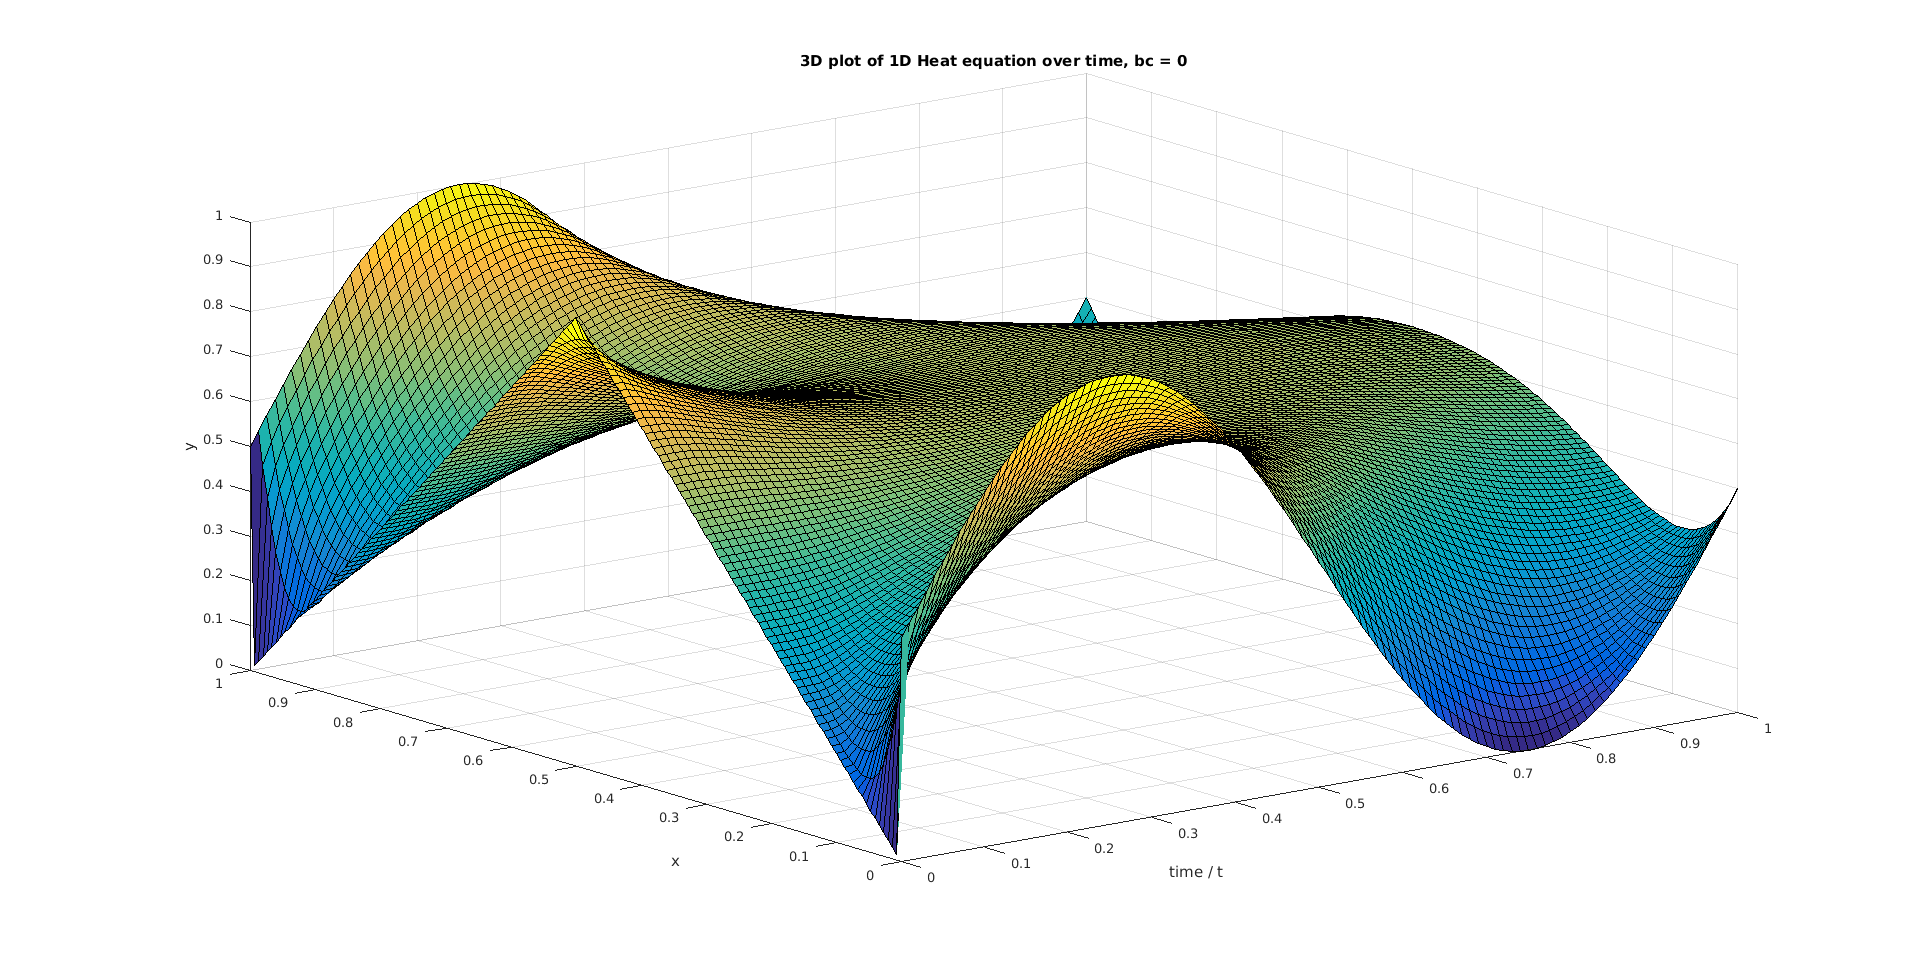
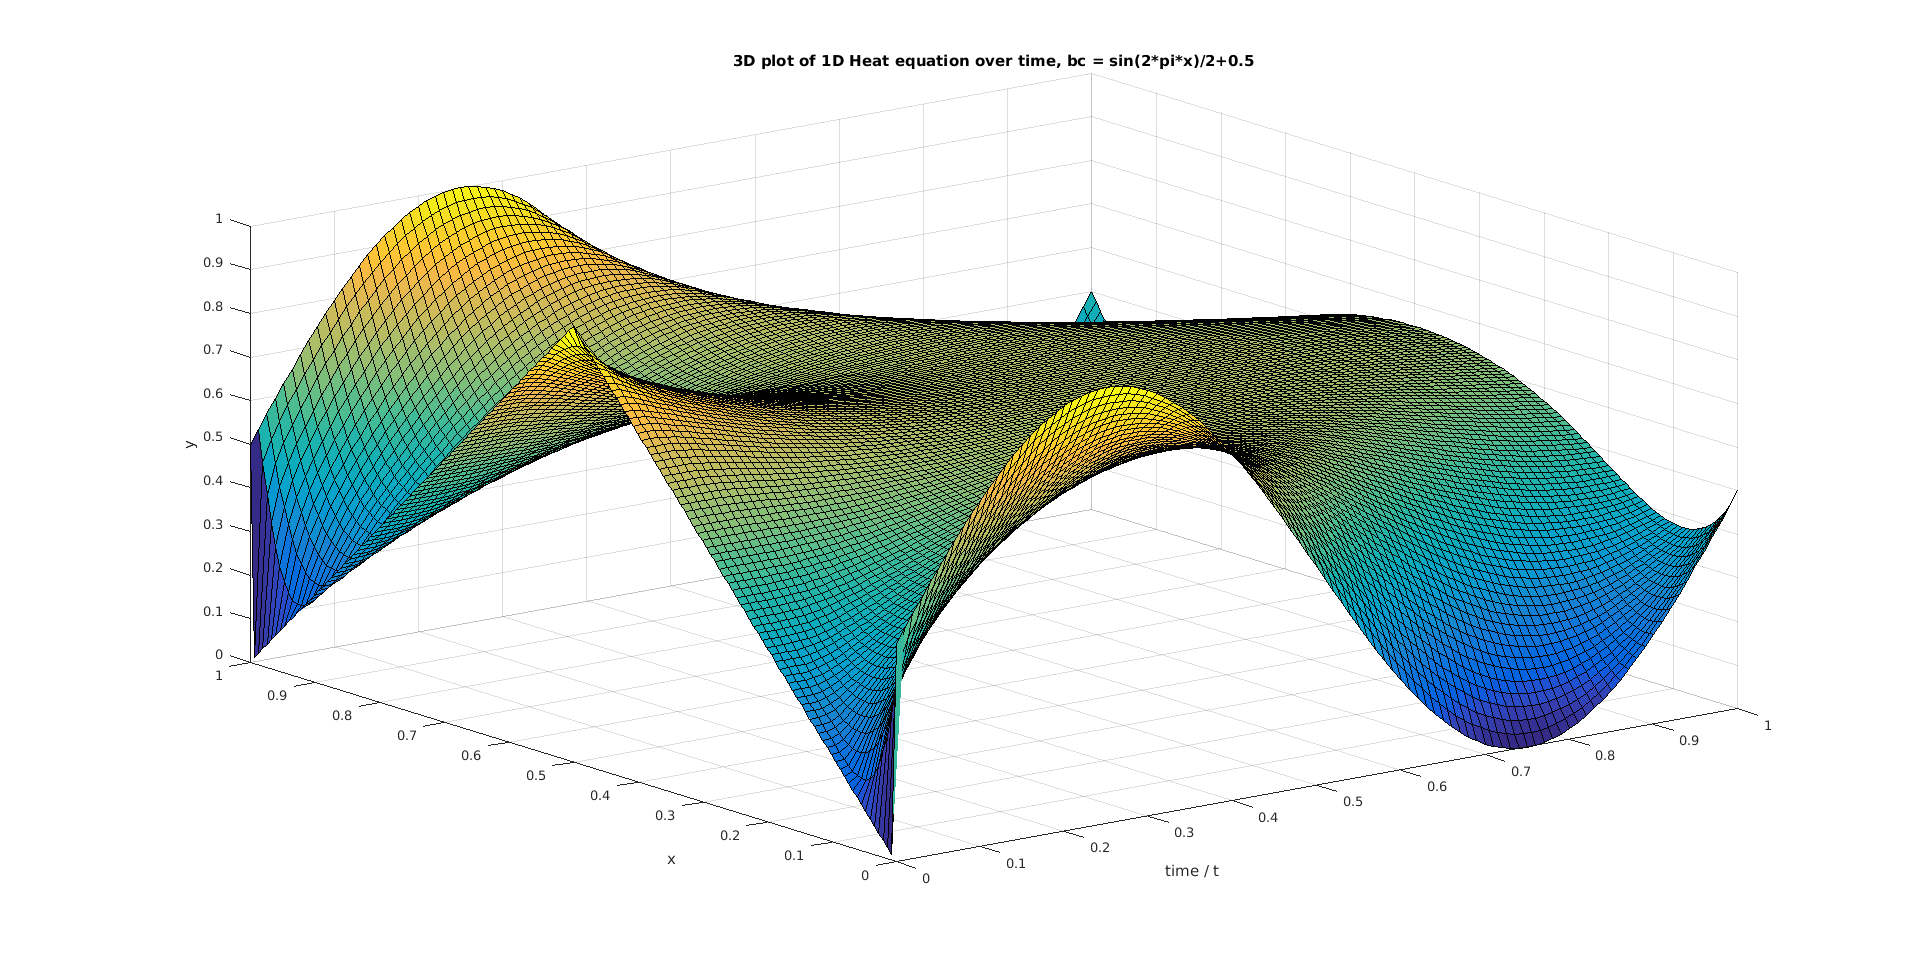
Added more plots

diff --git a/Part 3/scripts/finite_script.m b/Part 3/scripts/finite_script.m
@@ -23,8 +23,8 @@ k = h^2 * v;
 res(:, 1) = get_function(N, h, 1)';
 
 % Set boundary conditions
-res(1, :) = sin(2*pi*(0:m)/m)/2+0.5;
-res(N+1, :) = sin(2*pi*(0:m)/m)/2+0.5;
+res(1, :) = ones(1, m+1);
+res(N+1, :) = ones(1, m+1);
 
 % Calculate M+1 and plot it continuously
 for c = 1:m
@@ -49,7 +49,7 @@ hold off;
 
 xlabel('x');
 ylabel('y');
-title('Plots of 1D Heat equation over time, bc = 0');
+title('Plots of 1D Heat equation over time, bc = 1');
 legend('m = 0', 'm = 100', 'm = 200', 'm = ...', 'm = 5000');
 
 % Plot 3D
@@ -62,6 +62,6 @@ surf(X, Y, Z);
 xlabel('time / t');
 ylabel('x');
 zlabel('y');
-title('3D plot of 1D Heat equation over time, bc = 0');
+title('3D plot of 1D Heat equation over time, bc = 1');
 
 
